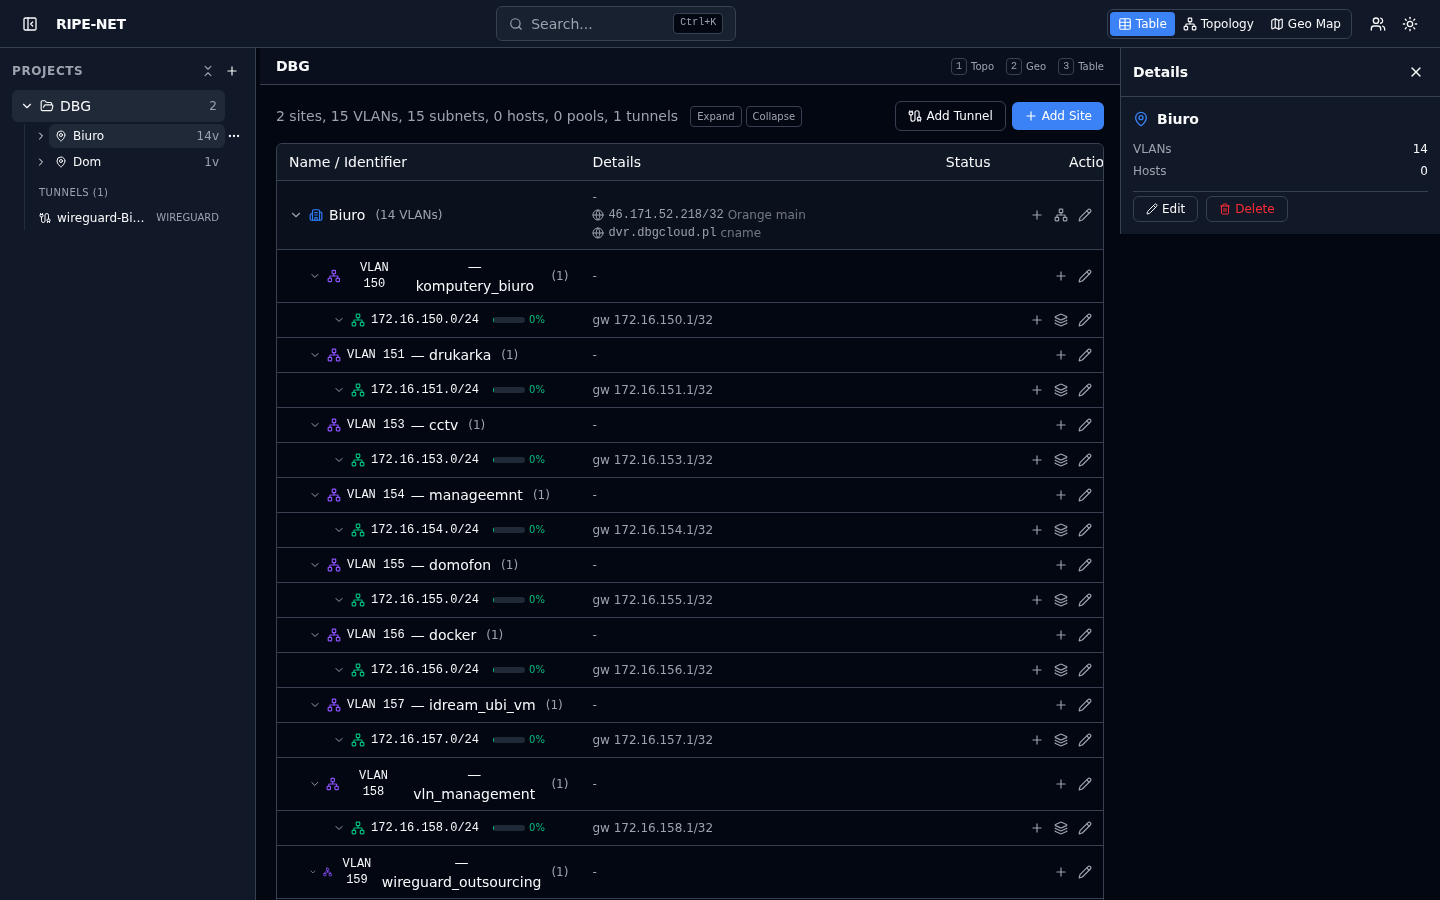
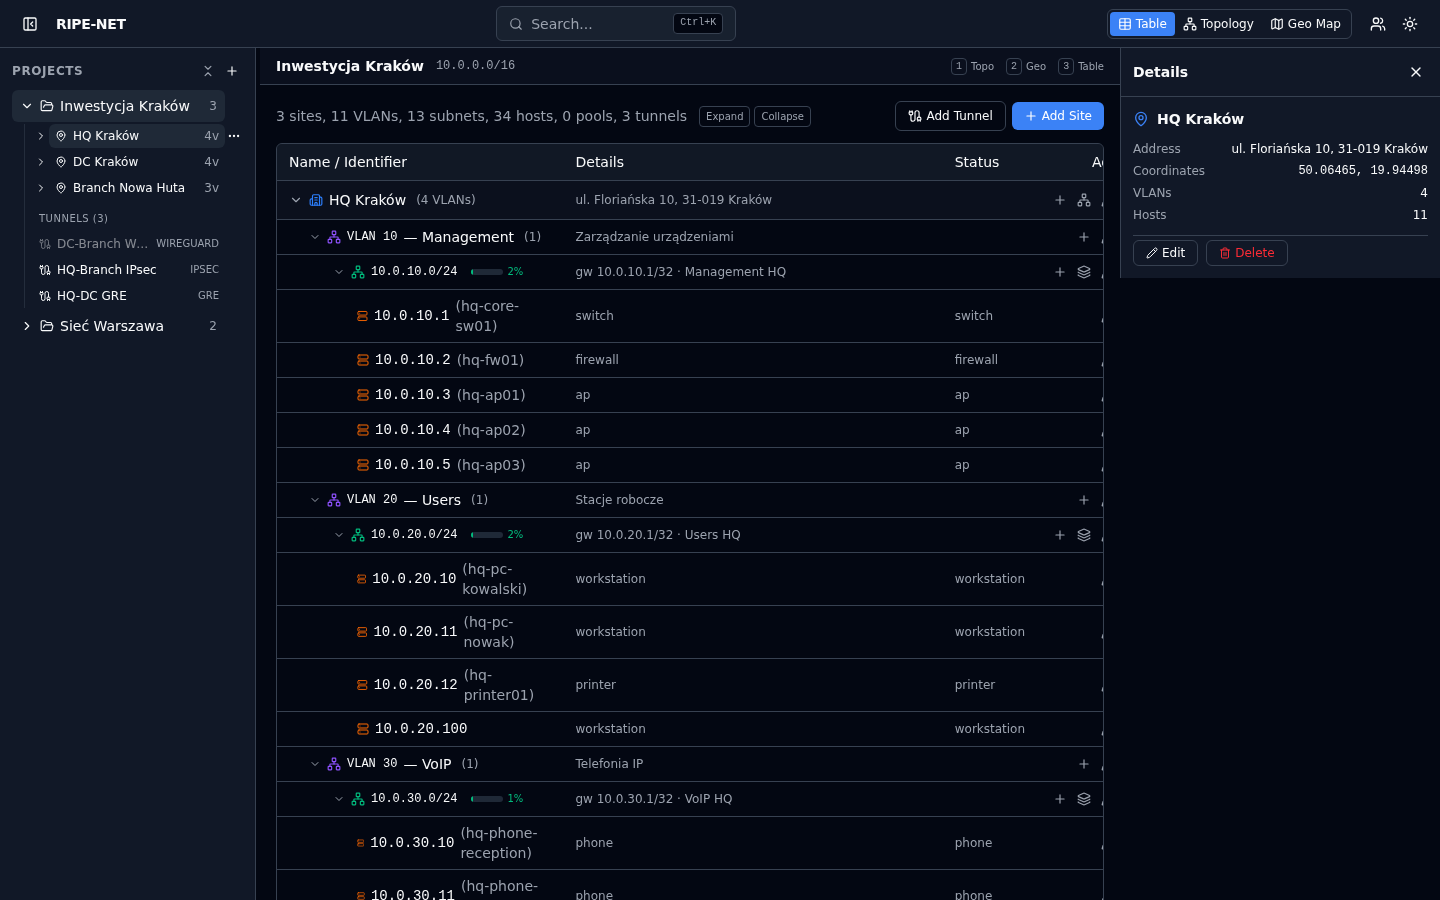
Replace screenshots with anonymized sample data
Screenshots now use seed data (fictitious projects, sites, hosts)
instead of real network data. Added dashboard screenshot.
Original database restored after capture.

diff --git a/README.md b/README.md
@@ -24,19 +24,22 @@ Web application for managing IP address infrastructure: projects, sites, VLANs, 
 
 ## Screenshots
 
-### Table view (light)
+### Dashboard
+![Dashboard](docs/screenshots/dashboard-light.png)
+
+### Table view
 ![Table view](docs/screenshots/table-view-light.png)
 
-### Topology view (light)
+### Topology view
 ![Topology view](docs/screenshots/topology-light.png)
 
-### Table view (dark)
-![Table view dark](docs/screenshots/table-view-dark.png)
-
-### Detail panel (dark)
+### Detail panel (dark mode)
 ![Detail panel dark](docs/screenshots/detail-panel-dark.png)
 
-### Topology view (dark)
+### Table view (dark mode)
+![Table view dark](docs/screenshots/table-view-dark.png)
+
+### Topology view (dark mode)
 ![Topology view dark](docs/screenshots/topology-dark.png)
 
 ## Requirements
